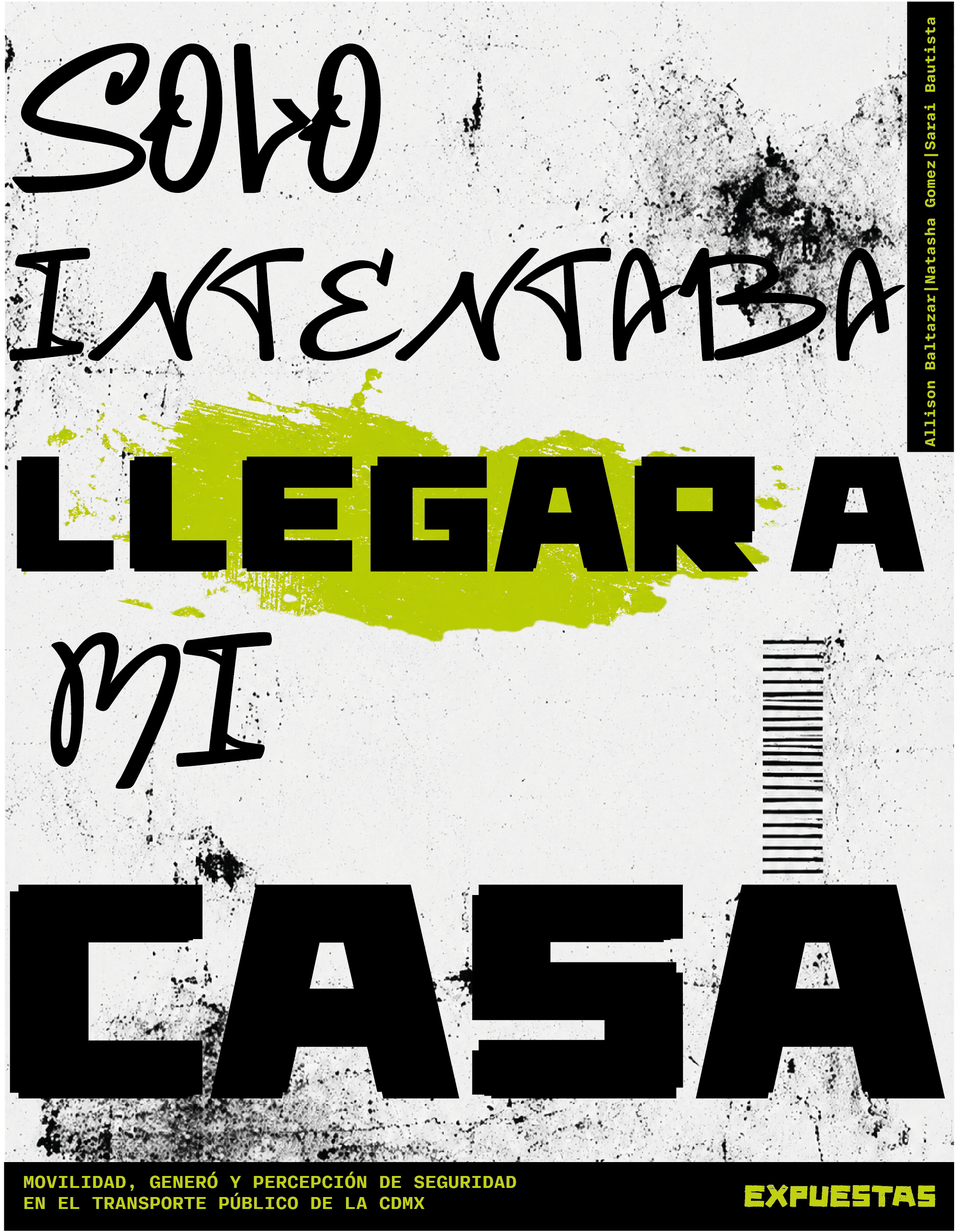
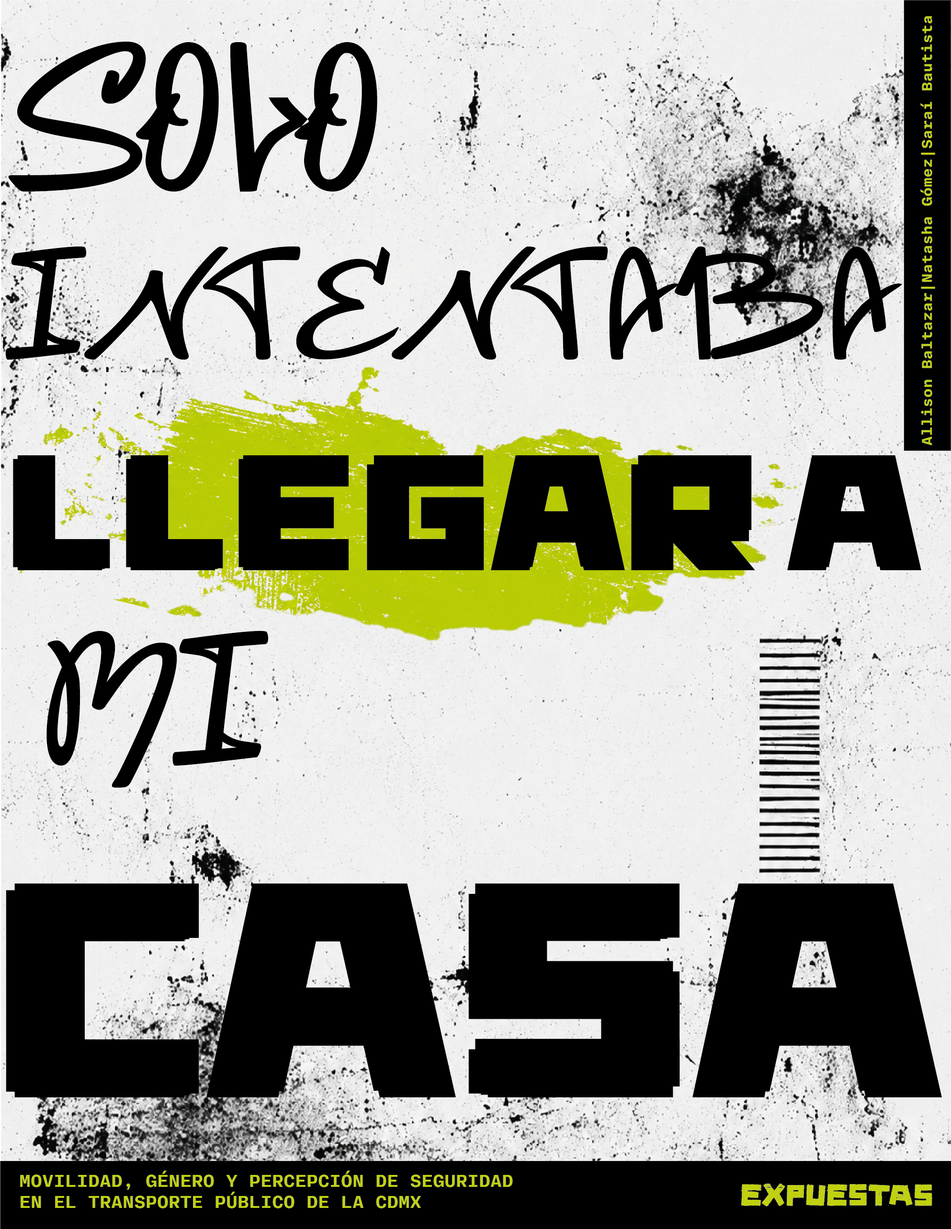
vinculación de carteles de tetsimonios en la sala de experiencia con la de galeria

diff --git a/docs/identidad.html b/docs/identidad.html
@@ -395,12 +395,12 @@
                 { src: '../img/mk/mk6.png', title: 'Mockup 06', category: 'mockups', description: 'Otra adaptación de la identidad para revisar proporción y contraste.', meta: 'Mockup / General' },
                 { src: '../img/mk/mkcartel3.png', title: 'Mockup Cartel 03', category: 'mockups', description: 'Variación adicional del cartel en entorno real.', meta: 'Mockup / Cartel' },
                 { src: '../img/mk/mockup%20billboard%202.jpg', title: 'Mockup Billboard', category: 'mockups', description: 'Aplicación de gran formato para comprobar visibilidad a distancia.', meta: 'Mockup / Billboard' },
-                { src: '../img/APLICACIONES/testi1.png', title: 'Testimonio 01', category: 'testimonios', description: 'Primera pieza testimonial, con enfoque humano y lectura clara.', meta: 'Serie / Testimonios' },
-                { src: '../img/APLICACIONES/testi2.png', title: 'Testimonio 02', category: 'testimonios', description: 'Segunda pieza testimonial para dar continuidad a la narrativa.', meta: 'Serie / Testimonios' },
-                { src: '../img/APLICACIONES/testi3.png', title: 'Testimonio 03', category: 'testimonios', description: 'Tercera pieza de la serie testimonial, más cercana al lenguaje de campaña.', meta: 'Serie / Testimonios' },
-                { src: '../img/APLICACIONES/testi4.JPG', title: 'Testimonio 04', category: 'testimonios', description: 'Versión fotográfica del bloque testimonial, pensada para el impacto emocional.', meta: 'Serie / Testimonios' },
-                { src: '../img/APLICACIONES/testi5.JPG', title: 'Testimonio 05', category: 'testimonios', description: 'Otra variación testimonial para cerrar el conjunto de piezas.', meta: 'Serie / Testimonios' },
-                { src: '../img/APLICACIONES/testi 6.jpg', title: 'Testimonio 06', category: 'testimonios', description: 'Última pieza testimonial con el mismo tono urbano y sobrio.', meta: 'Serie / Testimonios' }
+                { id: 'testimonio-01', src: '../img/APLICACIONES/testi1.png', title: 'Testimonio 01', category: 'testimonios', description: 'Primera pieza testimonial, con enfoque humano y lectura clara.', meta: 'Serie / Testimonios' },
+                { id: 'testimonio-02', src: '../img/APLICACIONES/testi2.png', title: 'Testimonio 02', category: 'testimonios', description: 'Segunda pieza testimonial para dar continuidad a la narrativa.', meta: 'Serie / Testimonios' },
+                { id: 'testimonio-03', src: '../img/APLICACIONES/testi3.png', title: 'Testimonio 03', category: 'testimonios', description: 'Tercera pieza de la serie testimonial, más cercana al lenguaje de campaña.', meta: 'Serie / Testimonios' },
+                { id: 'testimonio-04', src: '../img/APLICACIONES/testi4.JPG', title: 'Testimonio 04', category: 'testimonios', description: 'Versión fotográfica del bloque testimonial, pensada para el impacto emocional.', meta: 'Serie / Testimonios' },
+                { id: 'testimonio-05', src: '../img/APLICACIONES/testi5.JPG', title: 'Testimonio 05', category: 'testimonios', description: 'Otra variación testimonial para cerrar el conjunto de piezas.', meta: 'Serie / Testimonios' },
+                { id: 'testimonio-06', src: '../img/APLICACIONES/testi 6.jpg', title: 'Testimonio 06', category: 'testimonios', description: 'Última pieza testimonial con el mismo tono urbano y sobrio.', meta: 'Serie / Testimonios' }
             ];
 
             const grid = document.getElementById('galleryGrid');
@@ -412,6 +412,8 @@
             const lightboxClose = document.getElementById('lightboxClose');
             const filterButtons = Array.from(document.querySelectorAll('.filter-btn'));
             let activeFilter = 'all';
+            const requestedItemId = new URLSearchParams(window.location.search).get('item');
+            let requestedItemToOpen = null;
 
             function openLightbox(item) {
                 lightbox.classList.add('is-open');
@@ -455,6 +457,14 @@
                         });
                         grid.appendChild(figure);
                     });
+
+                if (requestedItemToOpen) {
+                    const itemToOpen = galleryItems.find((item) => item.id === requestedItemToOpen);
+                    requestedItemToOpen = null;
+                    if (itemToOpen) {
+                        openLightbox(itemToOpen);
+                    }
+                }
             }
 
             filterButtons.forEach((button) => {
@@ -478,6 +488,19 @@
                     closeLightbox();
                 }
             });
+
+            if (requestedItemId) {
+                const itemToFocus = galleryItems.find((item) => item.id === requestedItemId);
+                if (itemToFocus) {
+                    activeFilter = itemToFocus.category;
+                    requestedItemToOpen = requestedItemId;
+                    filterButtons.forEach((candidate) => candidate.classList.remove('is-active'));
+                    const matchingFilterButton = filterButtons.find((button) => button.dataset.filter === activeFilter);
+                    if (matchingFilterButton) {
+                        matchingFilterButton.classList.add('is-active');
+                    }
+                }
+            }
 
             renderGrid();
         })();

diff --git a/docs/experiencia.html b/docs/experiencia.html
@@ -239,7 +239,7 @@
             position: fixed;
             left: 50%;
             transform: translateX(-50%);
-            bottom: 32px;
+            bottom: 8px;
             display: flex;
             align-items: center;
             justify-content: center;
@@ -249,13 +249,6 @@
             pointer-events: auto;
         }
 
-        .experience-cta p {
-            color: var(--secondary-color);
-            font-size: 1.02rem;
-            margin: 0;
-            text-shadow: 0 1px 2px rgba(0, 0, 0, 0.35);
-        }
-
         .cta-button {
             background: var(--title-color);
             color: #08100e;
@@ -263,6 +256,12 @@
             border-radius: 8px;
             font-weight: 700;
             text-decoration: none;
+        }
+
+        .cta-button-secondary {
+            background: rgba(8, 10, 14, 0.66);
+            color: var(--secondary-color);
+            border: 1px solid rgba(255, 255, 255, 0.16);
         }
 
         @keyframes pulse {
@@ -362,8 +361,8 @@
         </div>
 
         <div class="experience-cta">
-            <p>¿Listo para la siguiente estación?</p>
             <a href="proxima-estacion.html" class="cta-button">Continuar →</a>
+            <a href="identidad.html?filter=testimonios" class="cta-button cta-button-secondary">Ver testimonios en galería</a>
         </div>
     </main>
 
